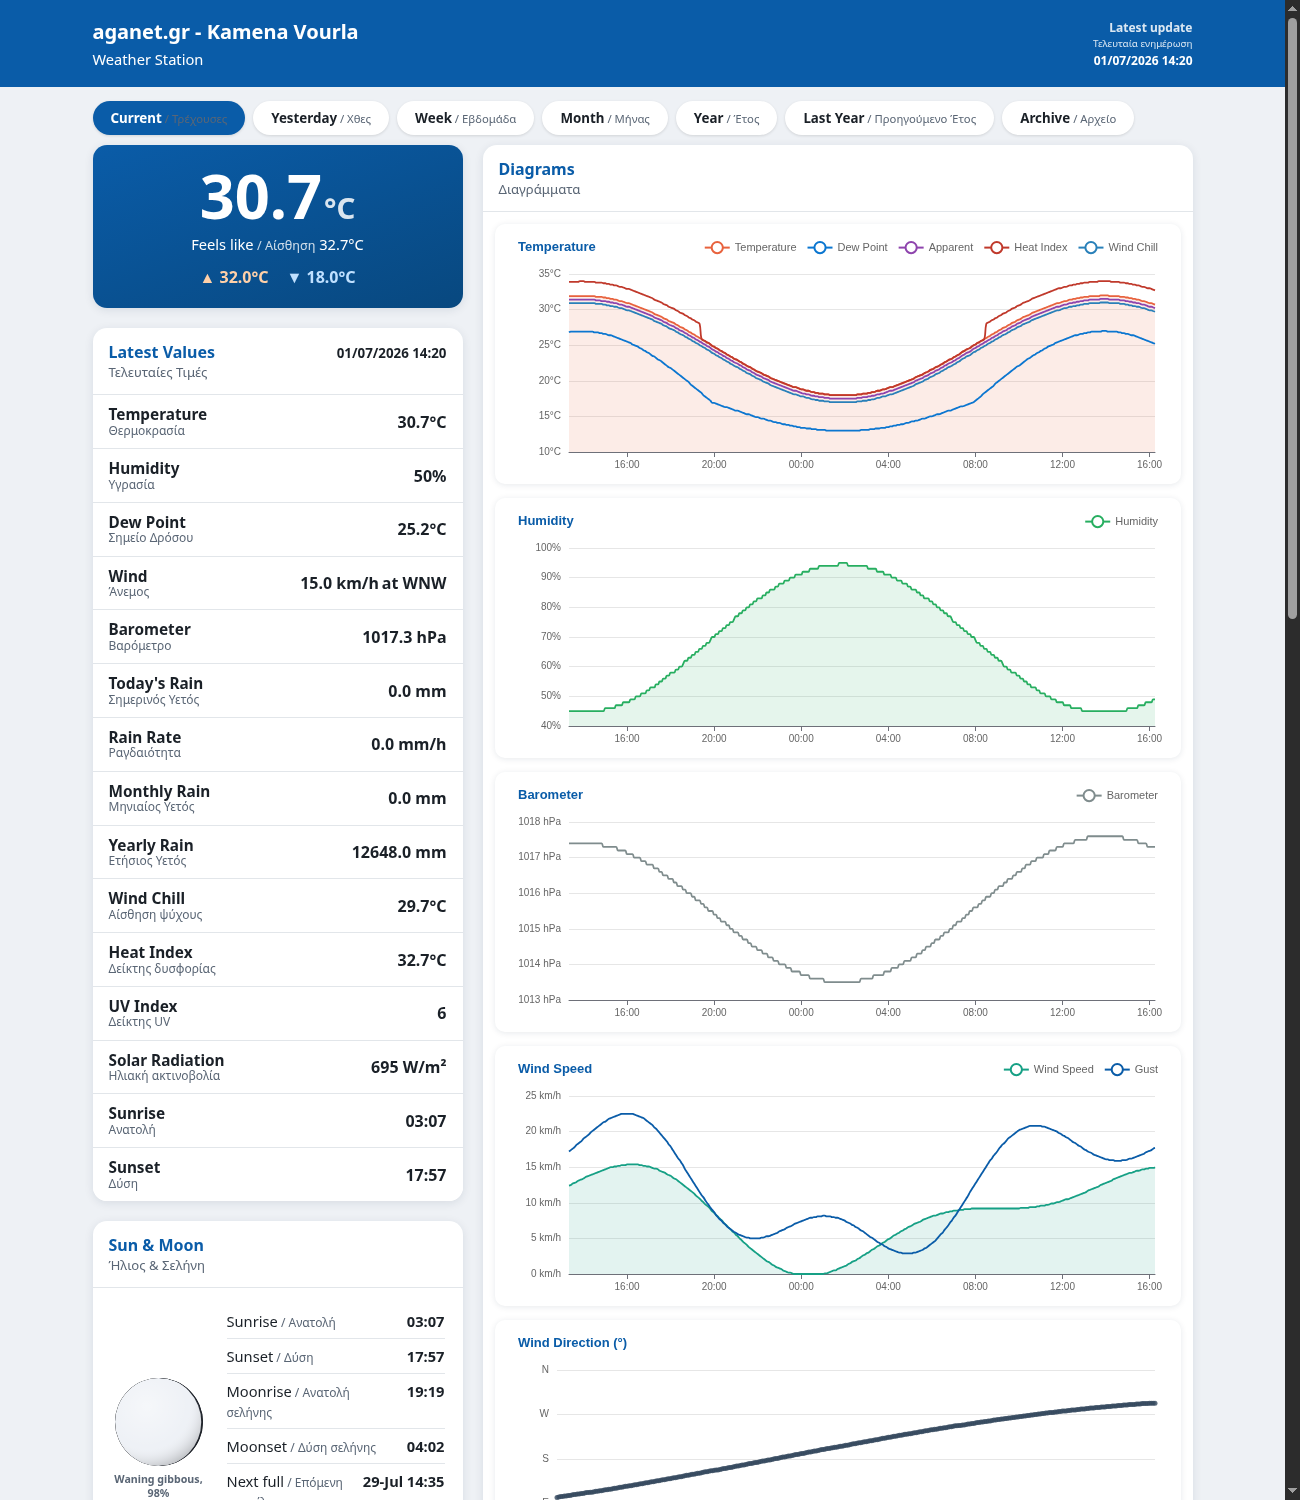
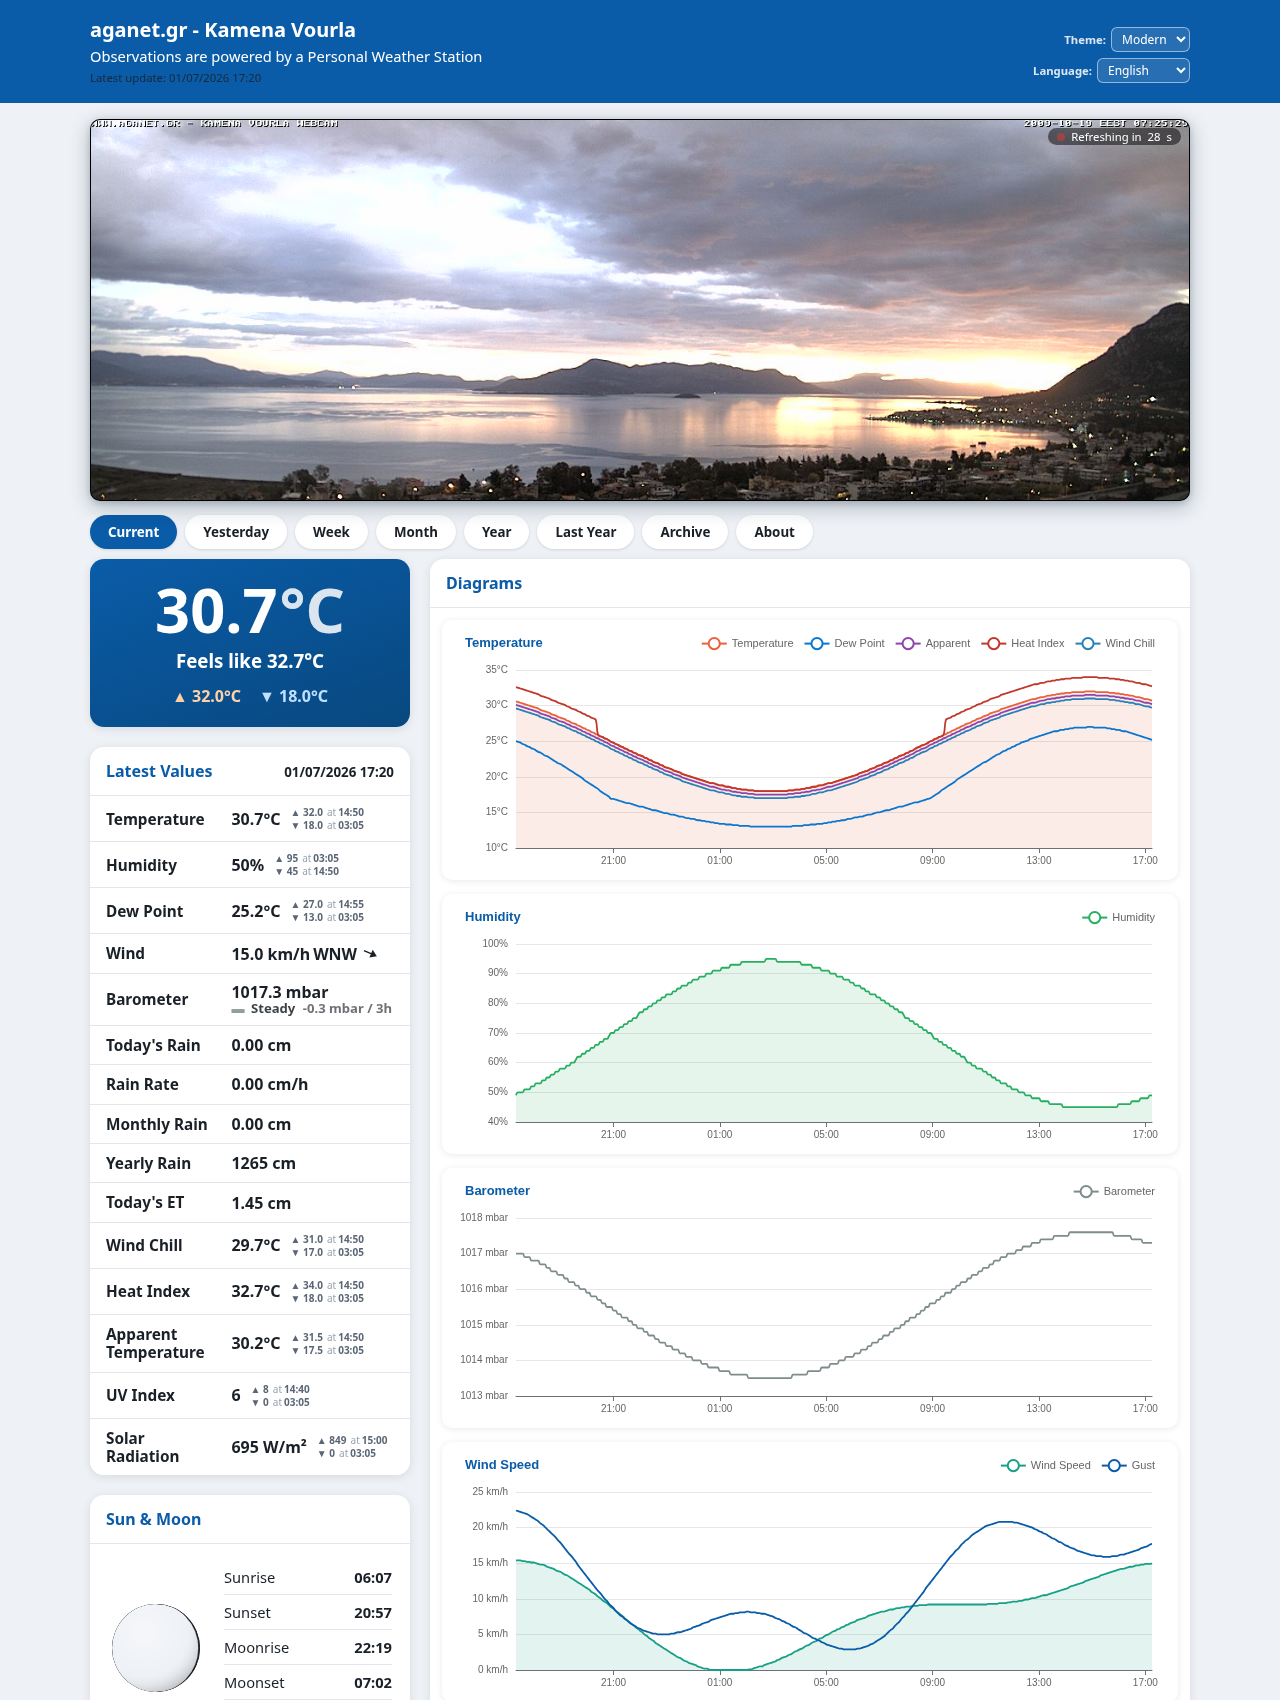
AganetWX 1.1.0
Webcam banner (configurable, auto-refresh with countdown, static mode),
header theme switcher (Modern/Classic/Dark, remembered, live chart re-tint),
Latest update moved under the station name, more compact header. Fresh
screenshots.

diff --git a/skins/AganetWX/aganetwx.js b/skins/AganetWX/aganetwx.js
@@ -2,10 +2,15 @@
 (function () {
   "use strict";
 
-  var DARK = document.documentElement.getAttribute("data-theme") === "dark";
-  var AX = DARK ? "#9fb0c0" : "#666";        // axis labels
-  var GRID = DARK ? "#2c3c4d" : "#e6e6e6";   // split lines
-  var TITLE = DARK ? "#8ab4f8" : "#0a5ca8";  // chart titles
+  // Theme-derived chart colors. Recomputed when the theme switcher changes mode.
+  var DARK, AX, GRID, TITLE;
+  function readTheme() {
+    DARK = document.documentElement.getAttribute("data-theme") === "dark";
+    AX = DARK ? "#9fb0c0" : "#666";        // axis labels
+    GRID = DARK ? "#2c3c4d" : "#e6e6e6";   // split lines
+    TITLE = DARK ? "#8ab4f8" : "#0a5ca8";  // chart titles
+  }
+  readTheme();
 
   // Language dictionaries for the switcher (code -> {englishKey: translation}).
   // Server-rendered pages carry the default; the switcher swaps client-side.
@@ -407,4 +412,61 @@
     else if (sel) sel.value = choice;
   }
   initLang();
+
+  // Theme switcher: Modern / Classic / Dark presets. The active preset is
+  // applied before paint by the inline head script; here we sync the dropdown
+  // and switch live (mode + layout), persisting the choice, and re-tint charts.
+  function initTheme() {
+    var sel = document.getElementById("theme-select");
+    if (!sel) return;
+    var PRESETS = {
+      modern:  { mode: "light", layout: "modern"  },
+      classic: { mode: "light", layout: "classic" },
+      dark:    { mode: "dark",  layout: "modern"  }
+    };
+    var cur = document.documentElement.getAttribute("data-preset") || "modern";
+    if (!PRESETS[cur]) cur = "modern";
+    sel.value = cur;
+    sel.addEventListener("change", function () {
+      var p = PRESETS[sel.value] ? sel.value : "modern";
+      var d = document.documentElement;
+      d.setAttribute("data-theme", PRESETS[p].mode);
+      d.setAttribute("data-preset", p);
+      d.setAttribute("data-layout", PRESETS[p].layout);
+      document.body.classList.remove("layout-modern", "layout-classic");
+      document.body.classList.add("layout-" + PRESETS[p].layout);
+      try { localStorage.setItem("aganetwx_theme", p); } catch (e) {}
+      readTheme();
+      if (chartData) render(chartData);   // re-tint charts for the new mode
+    });
+  }
+  initTheme();
+
+  // Live webcam: reload the image on an interval with a cache-busting query so
+  // the browser always fetches the current frame. Hides itself if the image
+  // fails to load (camera offline).
+  function initWebcam() {
+    var img = document.getElementById("webcam-img");
+    if (!img) return;
+    var src = img.getAttribute("data-src");
+    var every = parseInt(img.getAttribute("data-refresh"), 10) || 0;
+    var countEl = document.getElementById("webcam-count");
+    function bust() {
+      img.src = src + (src.indexOf("?") >= 0 ? "&" : "?") + "_t=" + (new Date()).getTime();
+    }
+    img.addEventListener("error", function () {
+      var wrap = document.querySelector(".webcam-wrap");
+      if (wrap) wrap.style.display = "none";
+    });
+    if (every > 0) {
+      bust();
+      var left = every;
+      setInterval(function () {
+        left -= 1;
+        if (left <= 0) { bust(); left = every; }
+        if (countEl) countEl.textContent = left;
+      }, 1000);
+    }
+  }
+  initWebcam();
 })();

diff --git a/skins/AganetWX/aganetwx.css b/skins/AganetWX/aganetwx.css
@@ -62,9 +62,9 @@ a:focus-visible, button:focus-visible, .navtab:focus-visible {
 .dist { margin-bottom: 20px; }
 
 /* Header */
-.header { min-height: 160px; }
+.header { min-height: 0; }
 .header .gradient { padding: 0; }
-.header_contents { max-width: 1100px; margin: 0 auto; padding: 18px 20px; }
+.header_contents { max-width: 1100px; margin: 0 auto; padding: 12px 20px; }
 .station_name { font-size: 20px; font-weight: bold; line-height: 1.2; }
 .station_sub  { font-size: 11pt; margin-top: 4px; }
 .header_top {
@@ -73,22 +73,25 @@ a:focus-visible, button:focus-visible, .navtab:focus-visible {
 }
 /* Let a long station name take the row and wrap instead of overflowing. */
 .header_top > div:first-child { flex: 1 1 260px; min-width: 0; }
-.header_meta { flex: 0 0 auto; }
-.header_meta { text-align: right; font-size: 9pt; }
-.header_meta .hm-title { font-weight: 600; }
-.header_meta .hm-time { margin-top: 2px; font-weight: 700; }
+.header_meta { flex: 0 0 auto; text-align: right; font-size: 9pt; }
+/* Latest-update line under the station name (single line). */
+.station_update { margin-top: 4px; font-size: 8.5pt; opacity: 0.85; }
 
 /* Language switcher (in-page, client-side). */
-.lang-switch { margin-top: 6px; }
-.lang-switch select {
+.lang-switch, .theme-switch {
+  margin-top: 6px;
+  display: flex; align-items: center; justify-content: flex-end; gap: 5px;
+}
+.switch-lbl { font-size: 8.5pt; font-weight: 600; opacity: 0.85; }
+.lang-switch select, .theme-switch select {
   font-family: inherit; font-size: 9pt; padding: 2px 6px; border-radius: 6px;
   border: 1px solid var(--m-border); background: var(--m-panel-bg);
   color: var(--m-ink); cursor: pointer;
 }
-body.layout-modern .lang-switch select {
+body.layout-modern .lang-switch select, body.layout-modern .theme-switch select {
   border-color: rgba(255,255,255,.5); background: rgba(255,255,255,.12); color: #fff;
 }
-body.layout-modern .lang-switch select option { color: var(--m-ink); }
+body.layout-modern .lang-switch select option, body.layout-modern .theme-switch select option { color: var(--m-ink); }
 
 /* Top navigation tabs */
 .m-nav { background: var(--m-gradient-top); border-bottom: 1px solid var(--m-border); }
@@ -226,6 +229,40 @@ body.layout-modern {
   font-size: 0.82em;
   opacity: 0.85;
 }
+/* Live webcam banner: aligned to the content width, above the nav. */
+.webcam-wrap {
+  max-width: 1100px; margin: 16px auto 4px; padding: 0 20px;
+  display: flex;
+}
+.webcam-wrap.wc-left   { justify-content: flex-start; }
+.webcam-wrap.wc-center { justify-content: center; }
+.webcam-wrap.wc-right  { justify-content: flex-end; }
+.webcam-box {
+  position: relative; overflow: hidden;
+  width: 100%;   /* fills the wrap unless max-width caps it */
+  border-radius: 10px;
+  border: 1px solid rgba(0,0,0,0.12);
+  box-shadow: 0 6px 20px rgba(16,38,64,0.28), 0 2px 6px rgba(16,38,64,0.18);
+  background: #000; line-height: 0;
+}
+.webcam-img { display: block; width: 100%; height: auto; object-fit: cover; }
+.webcam-cap {
+  position: absolute; left: 0; bottom: 0; right: 0;
+  padding: 6px 12px; line-height: 1.3;
+  background: linear-gradient(transparent, rgba(0,0,0,0.55));
+  color: #fff; font-size: 9pt;
+}
+.webcam-live {
+  position: absolute; top: 8px; right: 8px;
+  display: flex; align-items: center; gap: 6px;
+  padding: 3px 9px; border-radius: 12px;
+  background: rgba(0,0,0,0.5); color: #fff; font-size: 8.5pt; line-height: 1;
+}
+.webcam-dot {
+  width: 8px; height: 8px; border-radius: 50%;
+  background: #e53935; animation: webcam-pulse 1.6s ease-in-out infinite;
+}
+@keyframes webcam-pulse { 0%,100% { opacity: 1; } 50% { opacity: 0.25; } }
 /* Useful Links card: one link per row. */
 .links-card .link-row {
   display: block; padding: 9px 16px;

diff --git a/install.py b/install.py
@@ -17,7 +17,7 @@ def loader():
 class AganetWXInstaller(ExtensionInstaller):
     def __init__(self):
         super(AganetWXInstaller, self).__init__(
-            version="1.0.2",
+            version="1.1.0",
             name="AganetWX",
             description="AganetWX: a configurable WeeWX dashboard skin with interactive charts, multiple layouts, and i18n.",
             author="George Anestopoulos",

diff --git a/README.md b/README.md
@@ -30,10 +30,11 @@ Source and releases: [github.com/aganet/weewx-aganetwx](https://github.com/agane
 - **Interactive charts** ([Apache ECharts](https://echarts.apache.org/), self-hosted, no CDN), one per metric: temperature (with dew point, apparent, heat index, wind chill), humidity, barometer, wind speed and gust, wind direction, wind rose, rain, UV, solar radiation, evapotranspiration, cloud base.
 - **Current-conditions hero**: big current temperature, feels-like, and today's high/low range.
 - **Sensor-agnostic**: auto-discovers and displays whatever your station records (extra temp/humidity, soil, leaf, air quality, lightning, battery) with no hardcoded list. Looks complete on Davis, Ecowitt, Tempest, or a bare thermometer.
-- **Config-driven theming**: colors, gradient, font, density, **light / dark / auto** mode, all from `weewx.conf`.
+- **Config-driven theming**: colors, gradient, font, density, **light / dark / auto** mode, all from `weewx.conf`. An optional header switcher lets visitors pick **Modern / Classic / Dark** live (remembered per browser).
 - **Multi-language with a live switcher**: English, Greek, Spanish, French, German, Italian, Portuguese included. A header dropdown swaps every label and chart instantly (no reload); the browser language is auto-picked and remembered. Add a language by dropping in one `lang/<code>.conf` file. No template edits.
 - **NOAA reports**: monthly and yearly climatological text reports, linked from the Archive page.
 - **About page**: station hardware, coordinates, altitude and software versions read automatically, plus editable prose and contact fields. Coordinates hide behind one toggle for privacy.
+- **Optional webcam banner**: a live camera image above the navigation, auto-refreshing (cache-busted) with a countdown, or static. Size, position and a click-through link are all configurable.
 - **Respects your WeeWX units**: US, metric or metricwx, the skin follows your station's `unit_system` (and timezone) rather than forcing its own. Every value, chart axis and label matches the rest of your WeeWX setup. Override per-report if you want this page to differ.
 
 ## Requirements
@@ -46,14 +47,14 @@ Source and releases: [github.com/aganet/weewx-aganetwx](https://github.com/agane
 Install straight from the latest release (no download step needed):
 
 ```bash
-sudo weectl extension install https://github.com/aganet/weewx-aganetwx/releases/latest/download/AganetWX-1.0.2.zip
+sudo weectl extension install https://github.com/aganet/weewx-aganetwx/releases/latest/download/AganetWX-1.1.0.zip
 sudo systemctl restart weewx          # or: sudo /etc/init.d/weewx restart
 ```
 
 Or, if you already downloaded the zip, point at its full path:
 
 ```bash
-sudo weectl extension install /path/to/AganetWX-1.0.2.zip
+sudo weectl extension install /path/to/AganetWX-1.1.0.zip
 ```
 
 This adds a `[[AganetWXReport]]` report under `[StdReport]`, installs the skin to
@@ -132,6 +133,7 @@ touching a template**. Example:
 | `Extras.auto_refresh` | `auto`,seconds,`off` | `auto` | Auto-reload the page to follow new data |
 | `theme.layout` | `modern`,`classic` | `modern` | flat card-tile dashboard vs. compact rows |
 | `theme.mode` | `light`,`dark`,`auto` | `light` | `auto` follows the visitor's OS preference |
+| `theme.switcher` | bool | `true` | Header dropdown to switch Modern/Classic/Dark (remembered per browser) |
 | `theme.accent` | CSS color | `#0a5ca8` | Chart titles, links, headings |
 | `theme.gradient_top` / `gradient_bottom` | CSS color | gold/cream | Header and panel gradient |
 | `theme.page_bg` | CSS color | `#FFFDCA` | Page background |
@@ -149,6 +151,14 @@ touching a template**. Example:
 | `branding.link_url` / `link_text` | string | empty | Optional footer link |
 | `links.show` | bool | `true` | Show the "Useful Links" card (bottom of the left column) |
 | `links.<entry>` | `url`,`text` | Greece maps | Each `[[[entry]]]` adds a link; edit/add/remove freely |
+| `webcam.enable` | bool | `false` | Show the webcam banner above the nav |
+| `webcam.url` | string | `cam.jpg` | Image path (relative to the site) or full URL |
+| `webcam.auto_refresh` | bool | `true` | Reload the image periodically (cache-busted) with a live countdown badge; `false` for a static image |
+| `webcam.refresh` | seconds | `30` | Refresh interval when `auto_refresh` is on |
+| `webcam.max_width` | px | empty | Cap the image width; empty = full content width |
+| `webcam.height` | px | `380` | Cap the display height |
+| `webcam.align` | `left`,`center`,`right` | `center` | Position a narrower image |
+| `webcam.title` / `link` | string | empty | Optional caption and click-through URL |
 
 ### Units
 
@@ -206,6 +216,32 @@ The About page shows station facts automatically and takes prose/contact from
 to `about.inc` in the same directory: when present it replaces the config prose,
 accepts full HTML, and expands WeeWX tags like `$station.hardware`. Delete it to
 fall back. Set `about.show_coordinates = false` to hide exact coordinates.
+
+## Webcam
+
+Enable a webcam banner above the navigation (aligned to the content width, off
+by default):
+
+```ini
+[StdReport]
+    [[AganetWXReport]]
+        [[[Extras]]]
+            [[[[webcam]]]]
+                enable = true
+                url = "cam.jpg"       # local file or full URL
+                auto_refresh = true   # reload periodically, cache-busted
+                refresh = 30          # seconds
+                max_width = ""        # px; empty = full content width
+                height = 380          # px
+                align = center        # left | center | right
+                title = ""            # optional caption
+                link = ""             # optional click-through URL
+```
+
+With `auto_refresh = true` the image reloads every `refresh` seconds with a
+cache-busting query so it is never stale, and a live "Refreshing in Ns"
+countdown badge is shown. Set `auto_refresh = false` for a static image. If the
+image fails to load (camera offline), the banner hides itself.
 
 ## Useful Links card
 